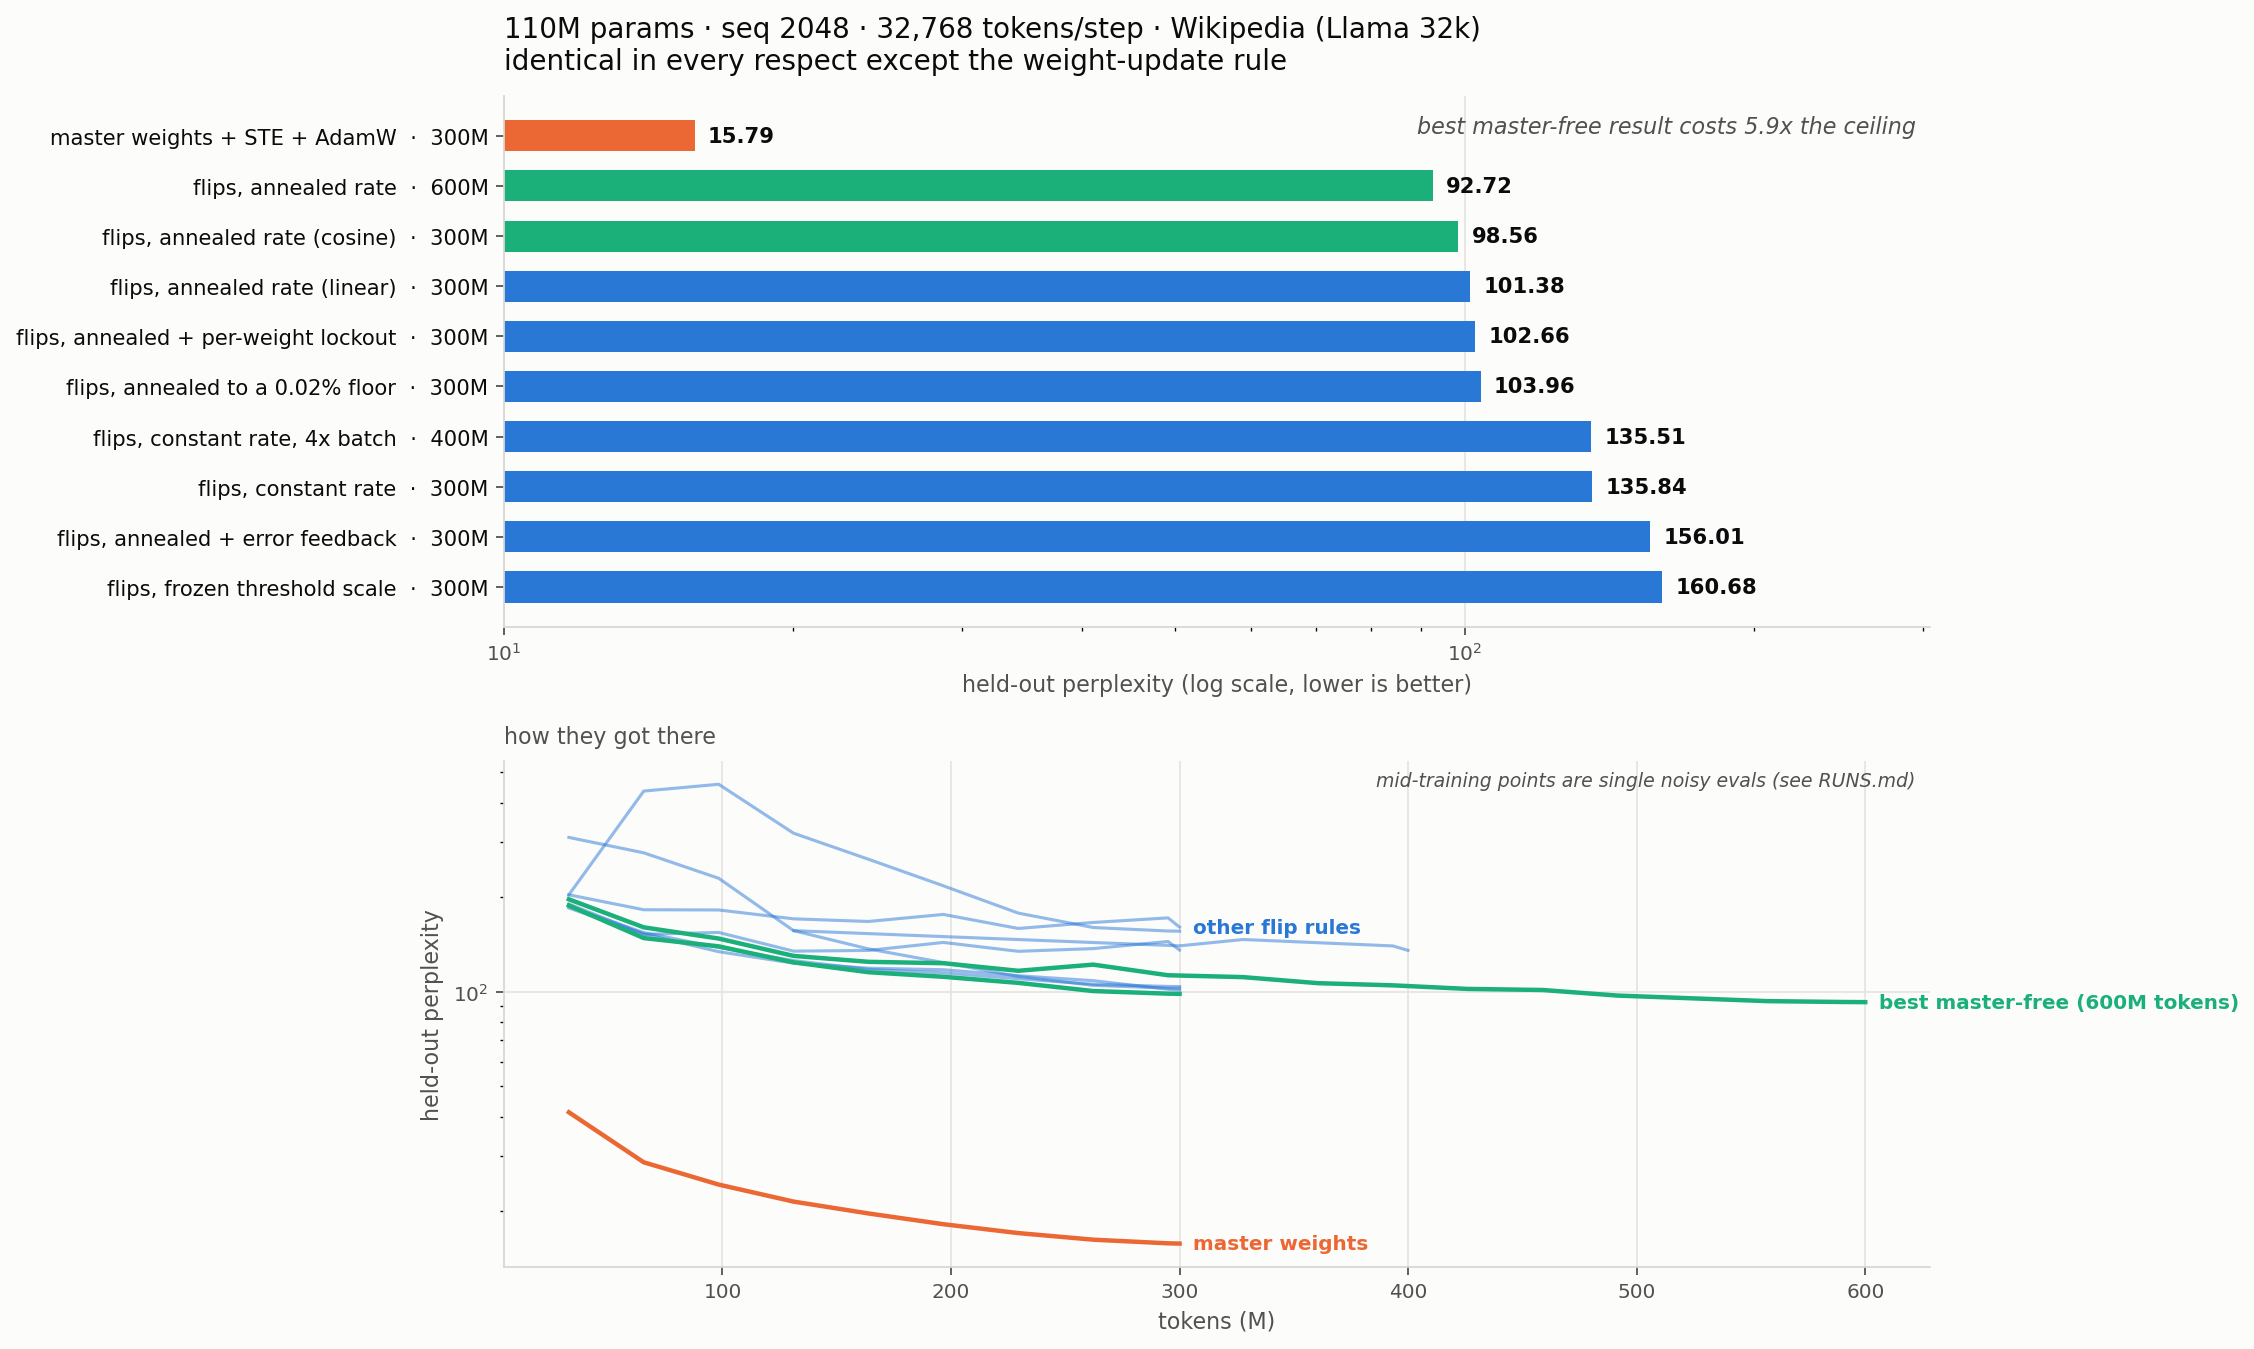
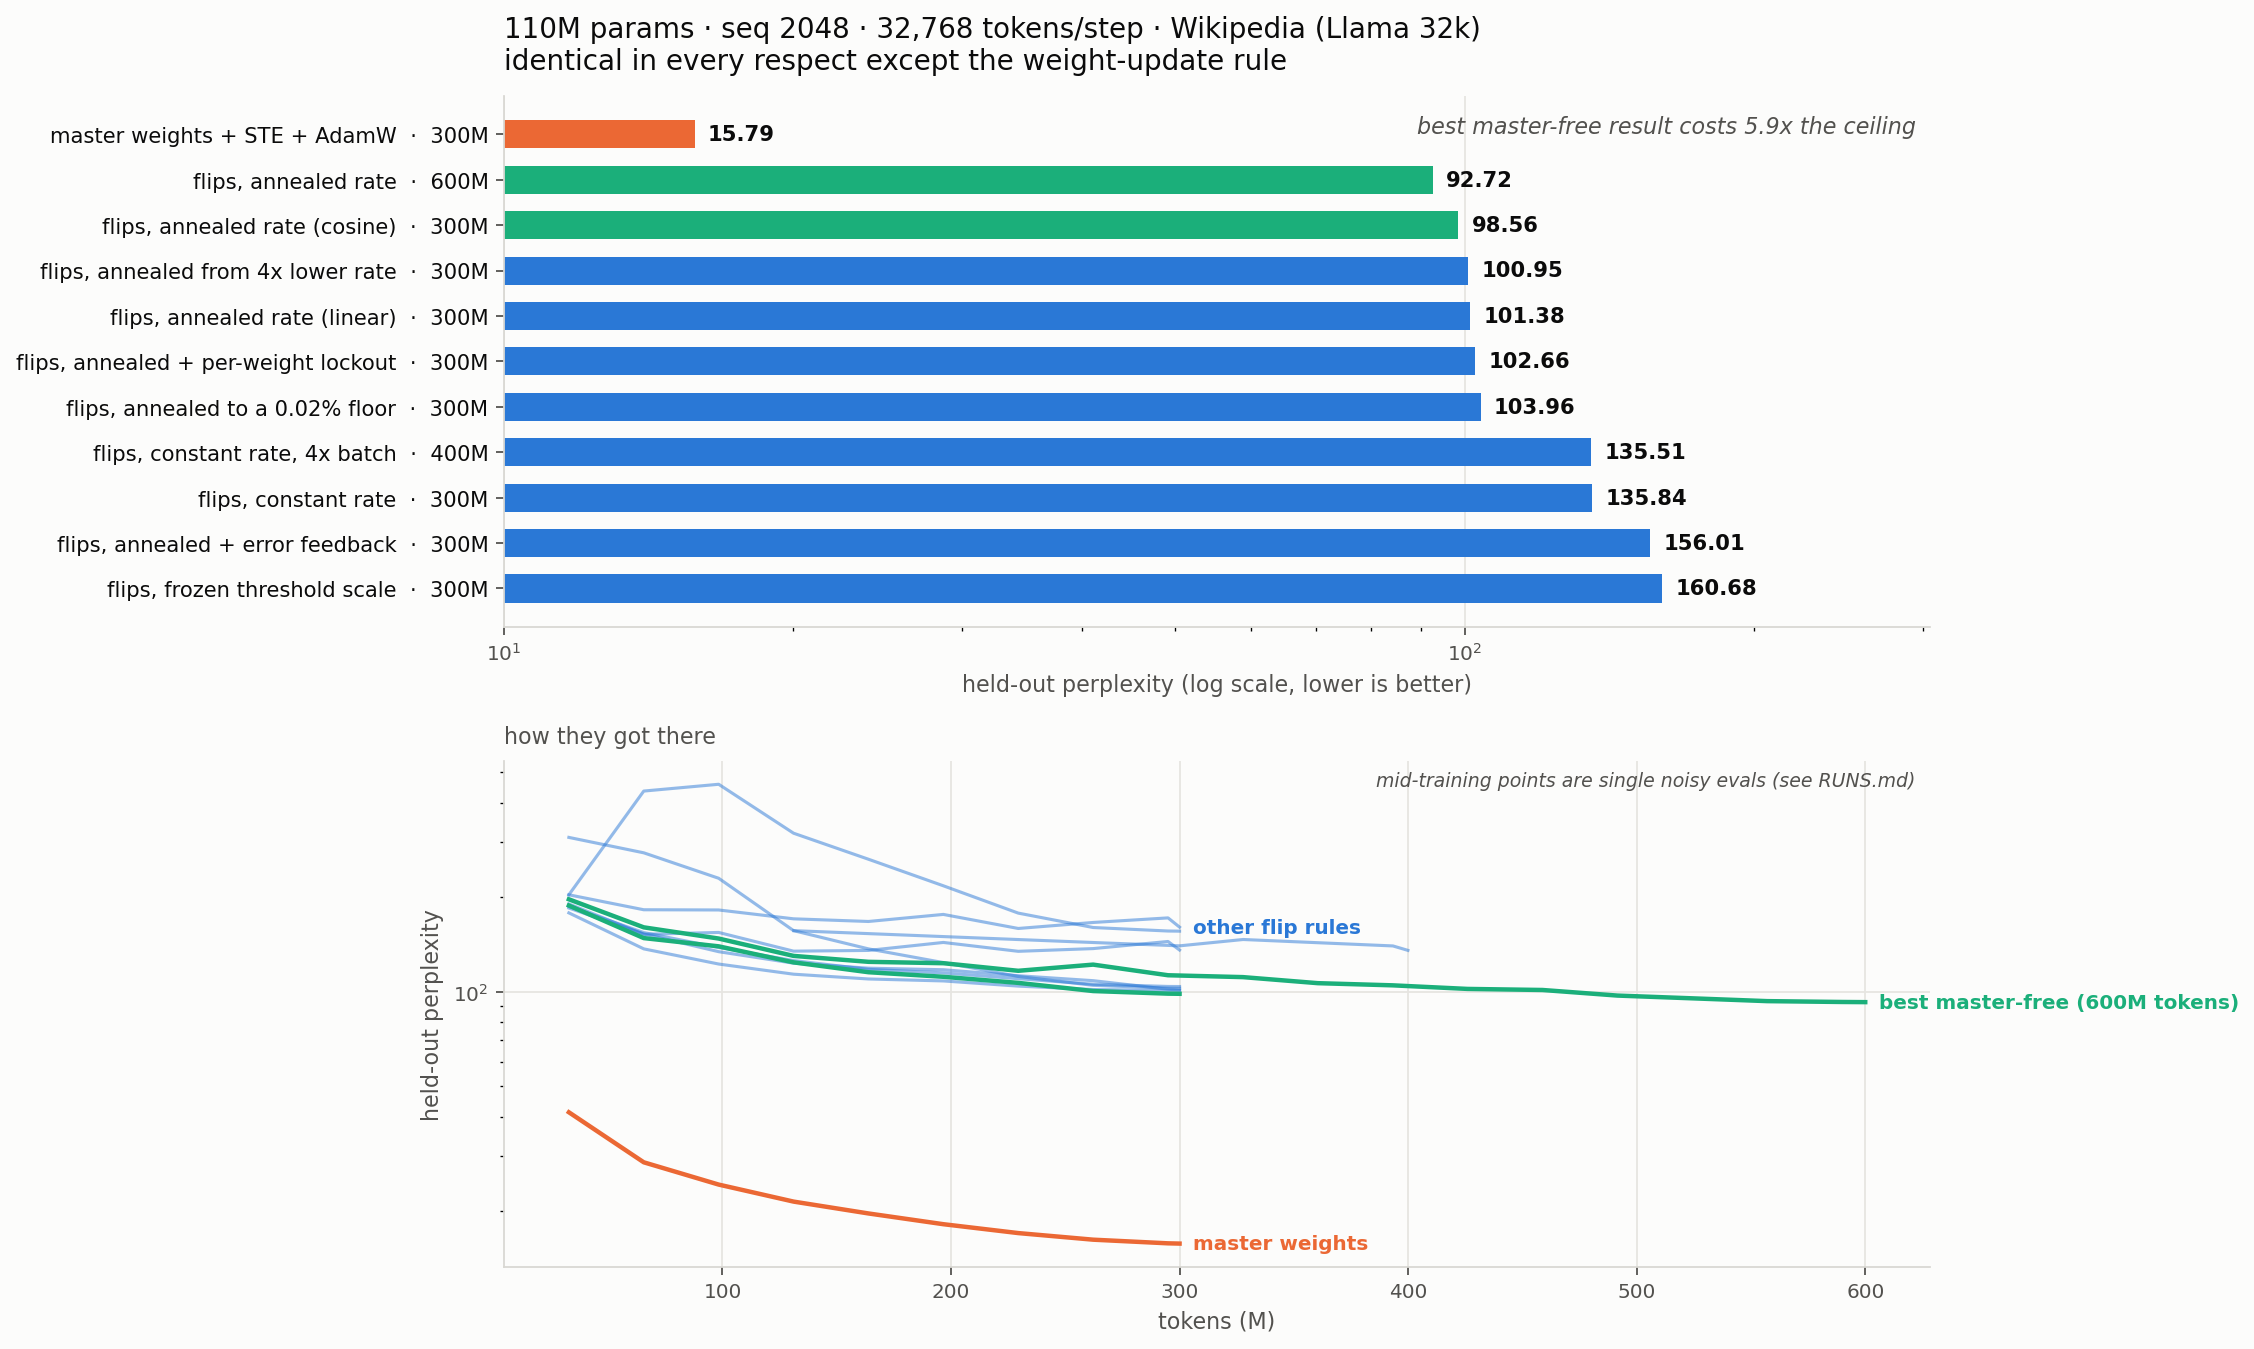
Record the 4x-lower flip rate run: faster early, 100.95 vs 98.56 at the end
armA_cosine with the cosine anneal starting from rate 0.005 (the one-step
optimum measured at step 1000) instead of 0.02. It is ahead by up to 17 ppl
through ~70% of training (122.6 vs 139.6 at 98M tokens) and is overtaken late,
ending at 100.95 against 98.56 -- inside the single-run noise band.

The 0.02 run makes its biggest gains when its own anneal passes through ~0.005
around step 6000, while the 0.005 run is annealed far below that by then. The
per-step optimum is real, but the endpoint depends on tracking it throughout,
and the greedy controller showed that tracking must be non-myopic.

Claude-Session: https://claude.ai/code/session_01BnM9ozRQbpzv5q7zzVCEsn

Changed region(s): [[0.0, 0.0934, 0.7764, 0.4359]]

diff --git a/plot_modes.py b/plot_modes.py
@@ -18,6 +18,7 @@ RUNS = [
     ("armA_cosine",       "flips, annealed rate (cosine)",     "300M", "best"),
     ("armA_linear",       "flips, annealed rate (linear)",     "300M", "flip"),
     ("armA_cos_lockout",  "flips, annealed + per-weight lockout", "300M", "flip"),
+    ("armA_cos_r005",     "flips, annealed from 4x lower rate", "300M", "flip"),
     ("armA_cos_floor",    "flips, annealed to a 0.02% floor",  "300M", "flip"),
     ("p3b_acc4",          "flips, constant rate, 4x batch",    "400M", "flip"),
     ("p3b_acc1",          "flips, constant rate",              "300M", "flip"),

diff --git a/RUNS.md b/RUNS.md
@@ -457,5 +457,25 @@ search always prefers small steps (short-horizon bias), and the `g_ref` sweep al
 showed a 3x lower effective rate gives identical alpha over steps 100-300 — one-step
 gains do not compose linearly over a trajectory.
 
-**In flight:** `armA_cos_r005` — `armA_cosine` exactly, but cosine-annealed from rate
-0.005 (the one-step optimum at step 1000) instead of 0.02, full 300M tokens.
+### Result: the lower rate learns faster, then loses at the end
+
+`armA_cos_r005` — `armA_cosine` exactly, but cosine-annealed from rate 0.005 (the
+one-step optimum at step 1000) instead of 0.02, 300M tokens:
+
+| tokens | rate 0.005 | rate 0.02 |
+|---|---|---|
+| 33M | 178.4 | 188.3 |
+| 98M | 122.6 | 139.6 |
+| 197M | 108.3 | 111.7 |
+| 262M | 101.7 | 100.6 |
+| **300M** | **100.95** | **98.56** |
+
+![rate](docs/rate_005.png)
+
+Ahead by up to 17 ppl through ~70% of training, then overtaken; the endpoint is 2.4
+ppl worse, which is inside the single-run noise band for this study. So the one-step
+optimum is real but does not buy a better endpoint: the 0.02 run passes through the
+efficient rate region *late* in its anneal (its cosine reaches ~0.005 around step
+6000), which is exactly when it makes its biggest gains, while the 0.005 run is by
+then annealed far below it. The target is a schedule that tracks the per-step optimum
+throughout — and the greedy controller shows that tracking has to be non-myopic.
